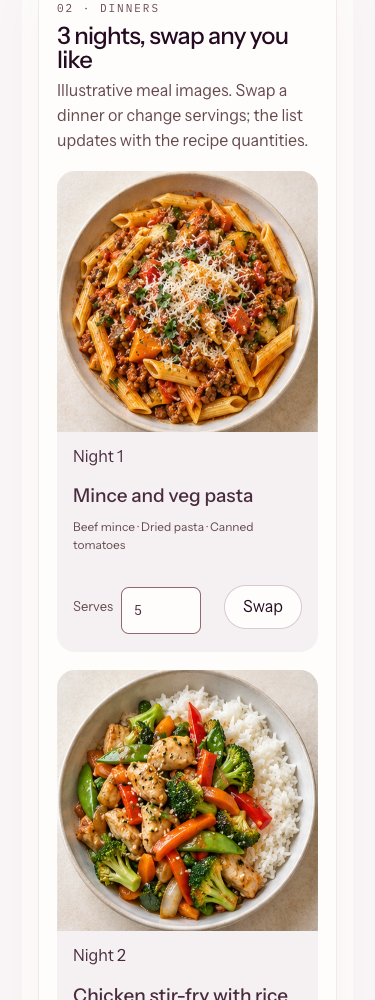
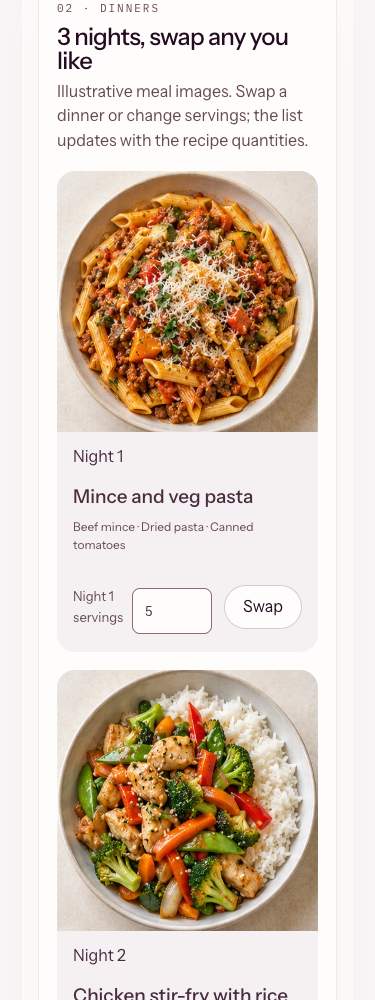
fix(do): guard planner inputs navigation and owner handoff

diff --git a/app/do/shop/ShopJourney.tsx b/app/do/shop/ShopJourney.tsx
@@ -3,7 +3,7 @@ import { useEffect, useMemo, useRef, useState } from 'react';
 import Link from 'next/link';
 import { GlassIdentity } from '@/components/brand/GlassIdentity';
 import { MEALS, ingredientById } from '@/lib/do/shop/catalogue';
-import { aisleList, choicesFromNights, estimate, listText, parseShopBrief, planMeals, retailerHandoff, RETAILERS, shopDigest, type RetailerKey, type ShopBrief } from '@/lib/do/shop/journey';
+import { validShopCount, aisleList, choicesFromNights, estimate, listText, parseShopBrief, planMeals, retailerHandoff, RETAILERS, shopDigest, type RetailerKey, type ShopBrief } from '@/lib/do/shop/journey';
 import type { MealChoice } from '@/lib/do/shop/preparation';
 import { prepareRun, reviewRun, runReceipt, type PreparationRun, type PreparedReceipt } from '@/lib/do/preparation/contracts';
 import { PantryEditor, newPantryRow, reviewPantry, type PantryRow } from './PantryEditor';
@@ -18,9 +18,25 @@ function nightsFromChoices(choices: MealChoice[]): Night[] {
 }
 type SyncState = { signedIn: boolean; enabled: boolean; workspace: string | null };
 
+function WholeNumber({ label, value, max, onChange, onValidity }: { label: string; value: number; max: number; onChange: (value: number) => void; onValidity: (valid: boolean) => void }) {
+  const [raw, setRaw] = useState(String(value));
+  useEffect(() => { setRaw(String(value)); }, [value]);
+  const valid = validShopCount(raw, max);
+  return <label>{label}<input type="number" min={1} max={max} step={1} aria-label={label} aria-invalid={!valid} value={raw} onChange={event => {
+    const next = event.target.value;
+    setRaw(next);
+    const ok = validShopCount(next, max);
+    onValidity(ok);
+    if (ok) onChange(Number(next));
+  }} />{!valid && <span role="alert">Enter a whole number from 1 to {max}. The last valid quantity remains on the list.</span>}</label>;
+}
+
 /** Brief → dinners → pantry → aisle list → handoff. Every step is editable, every edit invalidates
  * the review, and nothing leaves this page except links the shopper opens themselves. */
 export default function ShopJourney({ initialBrief = '', embedded = false, expectedWorkspace }: { initialBrief?: string; embedded?: boolean; expectedWorkspace?: string }) {
+  const [invalidNumbers, setInvalidNumbers] = useState<Record<string, boolean>>({});
+  const numericValid = !Object.values(invalidNumbers).some(Boolean);
+  const numberValidity = (id: string, valid: boolean) => { setInvalidNumbers(current => ({ ...current, [id]: !valid })); if (!valid) invalidate(); };
   const [text, setText] = useState(initialBrief);
   const [reviewBrief, setReviewBrief] = useState<ShopBrief | null>(() => initialBrief ? parseShopBrief(initialBrief) : null);
   const [checkedItems, setCheckedItems] = useState<string[]>([]);
@@ -60,12 +76,20 @@ export default function ShopJourney({ initialBrief = '', embedded = false, expec
   useEffect(() => {
     if (!text.trim() && !brief) return;
     const warn = (event: BeforeUnloadEvent) => { event.preventDefault(); event.returnValue = ''; };
+    const leave = (event: MouseEvent) => {
+      if (!(event.target instanceof Element)) return;
+      const link = event.target.closest<HTMLAnchorElement>('a[href]');
+      if (!link || link.target === '_blank' || link.getAttribute('href')?.startsWith('#')) return;
+      if (!window.confirm('Leave this unsaved shopping plan? Only a separately kept list is saved; meals and pantry edits will be lost.')) { event.preventDefault(); event.stopImmediatePropagation(); }
+    };
+    document.addEventListener('click', leave, true);
     window.addEventListener('beforeunload', warn);
-    return () => window.removeEventListener('beforeunload', warn);
+    return () => { window.removeEventListener('beforeunload', warn); document.removeEventListener('click', leave, true); };
   }, [text, brief]);
 
   function invalidate() { setRun(null); setReceipt(null); setRevision(value => value + 1); setCopied(false); setCheckedItems([]); }
   function start() {
+    if (!numericValid) return;
     if (brief && !window.confirm('Replace the current dinners and pantry edits with this reviewed brief?')) return;
     const parsed = reviewBrief ?? parseShopBrief(text);
     const choices = planMeals(parsed);
@@ -91,7 +115,7 @@ export default function ShopJourney({ initialBrief = '', embedded = false, expec
   const summary = useMemo(() => brief ? estimate(list.lines, brief.budget) : null, [brief, list.lines]);
   const handoff = useMemo(() => retailerHandoff(list.lines, retailer), [list.lines, retailer]);
   const digest = useMemo(() => brief ? shopDigest({ brief, choices, pantry: pantryReviewed ? pantry.pantry : [], lines: list.lines }) : '', [brief, choices, pantryReviewed, pantry.pantry, list.lines]);
-  const ready = Boolean(brief) && nights.length > 0 && pantryReviewed && pantry.issues.length === 0 && list.lines.length > 0;
+  const ready = numericValid && Boolean(brief) && nights.length > 0 && pantryReviewed && pantry.issues.length === 0 && list.lines.length > 0;
   const current = { ...identity, revision: Math.max(1, revision) };
 
   function review(checked: boolean) {
@@ -101,7 +125,7 @@ export default function ShopJourney({ initialBrief = '', embedded = false, expec
     setRun(reviewRun(base, current, { digest }, checked, now));
   }
   function finish() {
-    if (!run) return;
+    if (!run || !ready) return;
     try { setReceipt(runReceipt(run, current, { digest }, new Date().toISOString())); }
     catch (error) { setNotice(error instanceof Error ? error.message : 'Review the current list first.'); }
   }
@@ -110,23 +134,18 @@ export default function ShopJourney({ initialBrief = '', embedded = false, expec
     catch { setNotice('Copy is unavailable here. Select the list and copy it manually.'); }
   }
   async function keepAsTask() {
-    if (!sync?.workspace || saving || (expectedWorkspace && sync.workspace !== expectedWorkspace)) return;
+    if ((embedded && !expectedWorkspace) || !sync?.workspace || saving || (expectedWorkspace && sync.workspace !== expectedWorkspace)) return;
     setSaving(true); setNotice('');
     try {
       taskId.current ||= crypto.randomUUID();
       const response = await fetch('/api/do/continuity', { method: 'POST', headers: { 'Content-Type': 'application/json', 'X-DO-Workspace': sync.workspace }, body: JSON.stringify({ action: 'save', id: taskId.current, scope: 'personal', request: listText(list.groups, `Shopping list · ${handoff.retailer}`).slice(0, 4000), context: [], consent: true, consentVersion: 'do-continuity-v1' }) });
       const data = await response.json().catch(() => ({}));
-      setNotice(response.ok && data.durable ? 'Kept as a DO task on your account. Open it on any device from Your tasks.' : (data.message || 'The list could not be kept. Nothing was saved online.'));
-    } catch { setNotice('The list could not be kept. Nothing was saved online.'); }
+      setNotice(response.ok && data.durable ? 'List text kept as a DO task. The editable meals, pantry and receipt are only in this tab.' : (data.message || 'Save could not be confirmed. Check Your tasks before retrying.'));
+    } catch { setNotice('Save could not be confirmed. Check Your tasks before retrying.'); }
     finally { setSaving(false); }
   }
 
-  return <div className="prep-page shop-page" onClickCapture={event => {
-    if ((!text.trim() && !brief) || !(event.target instanceof Element)) return;
-    const link = event.target.closest<HTMLAnchorElement>('a[href]');
-    if (!link || link.target === '_blank' || link.getAttribute('href')?.startsWith('#')) return;
-    if (!window.confirm('Leave this unsaved shopping plan? Copy the list or keep it as a task first if you need it later.')) { event.preventDefault(); event.stopPropagation(); }
-  }}>
+  return <div className="prep-page shop-page">
     {!embedded && <header className="prep-header"><GlassIdentity kind="do" size={54} /><Link href="/do">DO</Link><nav><Link href="/do/shop" aria-current="page">Shop</Link><Link href="/do/travel">Travel</Link><Link href="/do/continue">Your tasks</Link></nav></header>}
     <h1>Shopper DO</h1>
     <p className="prep-lead">Your dinners. Your pantry. One list to check.</p>
@@ -142,19 +161,19 @@ export default function ShopJourney({ initialBrief = '', embedded = false, expec
         <p>In your own words. Review the details before planning. Vegan meals are not supported yet.</p>
         <label htmlFor="shop-brief-text" className="prep-check" style={{ display: 'block' }}>Your brief</label>
         <textarea id="shop-brief-text" value={text} maxLength={6000} placeholder="e.g. Dinners for 4 for 5 nights, about $250. We have rice and onions. No nuts." onChange={event => { setText(event.target.value); setReviewBrief(null); }} />
-        <p className="shop-fine">Planning stays on this page. No new provider call or retailer connection.</p>
-        <button type="button" disabled={!text.trim()} onClick={() => setReviewBrief(parseShopBrief(text))}>Review brief</button>
+        <p className="shop-fine">Unsaved · this tab only. Browser Back or refresh can discard meals and pantry edits. Copy the list before leaving. Keeping a task saves list text only.</p>
+        <button type="button" disabled={!text.trim()} onClick={() => { setInvalidNumbers({}); setReviewBrief(parseShopBrief(text)); }}>Review brief</button>
         {reviewBrief && <div className="shop-brief-review" aria-label="Review shopping brief">
           <p>Check what DO read. Planning uses these values.</p>
           <div className="shop-review-fields">
-            <label>People<input type="number" min={1} max={12} value={reviewBrief.servings} onChange={event => setReviewBrief({ ...reviewBrief, servings: Math.min(12, Math.max(1, Number(event.target.value) || 1)) })} /></label>
-            <label>Nights (up to 7)<input type="number" min={1} max={7} value={reviewBrief.nights} onChange={event => setReviewBrief({ ...reviewBrief, nights: Math.min(7, Math.max(1, Number(event.target.value) || 1)) })} /></label>
+            <WholeNumber label="People" value={reviewBrief.servings} max={12} onValidity={valid => numberValidity("people", valid)} onChange={servings => setReviewBrief({ ...reviewBrief, servings })} />
+            <WholeNumber label="Nights (up to 7)" value={reviewBrief.nights} max={7} onValidity={valid => numberValidity("nights", valid)} onChange={nights => setReviewBrief({ ...reviewBrief, nights })} />
             <label>Budget NZ$ (optional)<input type="number" min={1} max={9999} value={reviewBrief.budget ? reviewBrief.budget.limitMinor / 100 : ''} onChange={event => setReviewBrief({ ...reviewBrief, budget: Number(event.target.value) > 0 ? { currency: 'NZD', limitMinor: Math.round(Math.min(9999, Number(event.target.value)) * 100), feeMinor: null } : null })} /></label>
           </div>
           <p>{reviewBrief.vegan ? 'Vegan: unsupported — no meals will be suggested.' : reviewBrief.vegetarian ? 'Vegetarian' : 'No vegetarian restriction read'} · {reviewBrief.excludedAllergens.length ? `Exclude: ${reviewBrief.excludedAllergens.join(', ')}` : 'No allergen exclusions read'}. Edit the brief to change dietary requirements.</p>
           {reviewBrief.unrecognised.length > 0 && <p>Not applied: {reviewBrief.unrecognised.join('; ')}</p>}
-          <button type="button" className="shop-primary" onClick={start} disabled={reviewBrief.vegan}>Use these details · plan dinners</button>
-          <button type="button" onClick={() => setReviewBrief(null)}>Cancel review</button>
+          <button type="button" className="shop-primary" onClick={start} disabled={reviewBrief.vegan || reviewBrief.dietaryReviewRequired || !numericValid}>Use these details · plan dinners</button>
+          <button type="button" onClick={() => { setInvalidNumbers({}); setReviewBrief(null); }}>Cancel review</button>
         </div>}
         {brief && <ul className="shop-chips" aria-label="What DO read">
           <li>{brief.servings} people</li><li>{brief.nights} nights</li>
@@ -174,7 +193,7 @@ export default function ShopJourney({ initialBrief = '', embedded = false, expec
             <div className="shop-meal-photo" role="img" aria-label={`Illustrative serving of ${meal.name}`} style={{ backgroundPosition: `${(MEALS.indexOf(meal) % 4) * 100 / 3}% ${MEALS.indexOf(meal) < 4 ? 0 : 100}%` }} />
             <span>Night {index + 1}</span>
             <div><strong>{meal.name}</strong><span className="shop-meal-ingredients">{meal.ingredients.slice(0, 3).map(item => item.name).join(" · ")}</span></div>
-            <label>Serves<input type="number" min={1} max={12} value={night.servings} aria-label={`Night ${index + 1} servings`} onChange={event => { const value = Math.min(12, Math.max(1, Number(event.target.value) || 1)); setNights(current => current.map((item, i) => i === index ? { ...item, servings: value } : item)); invalidate(); }} /></label>
+            <WholeNumber label={`Night ${index + 1} servings`} value={night.servings} max={12} onValidity={valid => numberValidity(`night-${index}`, valid)} onChange={servings => { setNights(current => current.map((item, i) => i === index ? { ...item, servings } : item)); invalidate(); }} />
             <button type="button" aria-label={`Swap night ${index + 1}`} onClick={() => swap(index)}>Swap</button>
           </li>; })}</ol>
           <p className="shop-fine">{eligible.length} of {MEALS.length} catalogue dinners fit your limits. <button type="button" className="shop-text-button" disabled={nights.length >= 7 || !eligible.length} onClick={() => { setNights(current => [...current, { mealId: eligible[current.length % eligible.length].id, servings: brief.servings }]); invalidate(); }}>Add a night</button> <button type="button" className="shop-text-button" disabled={nights.length <= 1} onClick={() => { setNights(current => current.slice(0, -1)); invalidate(); }}>Remove last night</button></p>
@@ -204,12 +223,12 @@ export default function ShopJourney({ initialBrief = '', embedded = false, expec
           <div className="shop-handoff-controls">
             <label>Supermarket <select value={retailer} onChange={event => setRetailer(event.target.value as RetailerKey)}>{Object.entries(RETAILERS).map(([key, value]) => <option key={key} value={key}>{value.name}</option>)}</select></label>
             <button type="button" disabled={!ready} onClick={() => void copyList()}>{copied ? 'Copied' : 'Copy list'}</button>
-            <button type="button" disabled={!ready || !sync?.enabled || saving || Boolean(expectedWorkspace && sync.workspace !== expectedWorkspace)} title={!sync?.signedIn ? 'Sign in to keep tasks' : !sync?.enabled ? 'Turn on sync in Your tasks first' : undefined} onClick={() => void keepAsTask()}>{saving ? 'Keeping…' : 'Keep as a DO task'}</button>
+            <button type="button" disabled={!ready || !sync?.enabled || saving || (embedded && !expectedWorkspace) || Boolean(expectedWorkspace && sync.workspace !== expectedWorkspace)} title={!sync?.signedIn ? 'Sign in to keep tasks' : !sync?.enabled ? 'Turn on sync in Your tasks first' : undefined} onClick={() => void keepAsTask()}>{saving ? 'Keeping…' : 'Keep as a DO task'}</button>
           </div>
           {ready ? <ul className="shop-links">{handoff.lines.map(line => <li key={line.name}><span>{line.name} · {line.display}</span><a href={line.url} target="_blank" rel="noopener noreferrer">Search at {handoff.retailer} ↗</a></li>)}</ul> : <p className="shop-fine">Finish the steps above to get your links.</p>}
           <label className="prep-check"><input type="checkbox" disabled={!ready || !!receipt} checked={run?.status === 'reviewed'} onChange={event => review(event.target.checked)} />I checked the quantities, swaps and allergen flags</label>
-          <button type="button" className="shop-primary" disabled={run?.status !== 'reviewed' || !!receipt} onClick={finish}>Save a prepared receipt</button>
-          {receipt && <div className="shop-receipt" role="status"><p>prepared · nothing ordered</p><p>{receipt.id} · {receipt.preparedAt}</p><p>{list.lines.length} lines · {handoff.retailer} · indicative estimate {money(list.lines.reduce((sum, line) => sum + line.estimateMinor, 0))}</p><p>external action: none · receipt is for this session; keep it as a task to carry it to another device</p></div>}
+          <button type="button" className="shop-primary" disabled={!ready || run?.status !== 'reviewed' || !!receipt} onClick={finish}>Save a prepared receipt</button>
+          {receipt && <div className="shop-receipt" role="status"><p>prepared · nothing ordered</p><p>{receipt.id} · {receipt.preparedAt}</p><p>{list.lines.length} lines · {handoff.retailer} · indicative estimate {money(list.lines.reduce((sum, line) => sum + line.estimateMinor, 0))}</p><p>external action: none · this receipt is only in this tab. Keeping a task saves list text only.</p></div>}
           <p className="shop-fine">{sync?.signedIn ? (sync.enabled ? 'Kept tasks reopen on any device you sign in on.' : 'Turn on sync in Your tasks to keep this list on your account.') : 'Sign in and turn on sync to keep this list on your account.'} Catalogue ingredient notes: {list.lines.filter(line => ingredientById(line.ingredientId)?.allergens.length).length} lines carry declared allergens; always check the real label.</p>
         </section>
       </div>}

diff --git a/lib/do/shop/journey.ts b/lib/do/shop/journey.ts
@@ -6,7 +6,7 @@ import { budgetSummary, fingerprint, type Budget } from '../preparation/contract
  * beyond the patterns below. Anything not recognised stays in `unrecognised` for the person. */
 export type ShopBrief = {
   servings: number; nights: number; budget: Budget | null;
-  vegetarian: boolean; vegan?: boolean; excludedAllergens: string[];
+  vegetarian: boolean; vegan?: boolean; dietaryReviewRequired?: boolean; excludedAllergens: string[];
   pantryHints: { id: string; name: string }[];
   unrecognised: string[];
 };
@@ -34,14 +34,17 @@ export function parseShopBrief(text: string): ShopBrief {
     }
   }
   const unrecognised = source.split(/[.;]\s*/).map(part => part.trim()).filter(part => part && !/(for|feed)\s+\d|\d\s*(people|adults|nights?|dinners?|days?)|\$|dollars|budget|vegetarian|veggie|have|got|week|gluten|dairy|nut|egg|fish|soy/i.test(part));
-  return { servings, nights, budget, vegetarian, vegan: /\bvegan\b/.test(lower), excludedAllergens, pantryHints, unrecognised };
+  // Retain every dietary clause for review, including clauses attached to recognised counts.
+  const dietaryReviewRequired = /allerg|intoleran|sesame|shellfish|celery|mustard|sulphite|lupin|halal|kosher|low.sodium|diabet|keto/i.test(source);
+  if (dietaryReviewRequired) unrecognised.push('Dietary requirements need manual review; this catalogue cannot verify allergy safety.');
+  return { servings, nights, budget, vegetarian, dietaryReviewRequired, vegan: /\bvegan\b/.test(lower), excludedAllergens, pantryHints, unrecognised };
 }
 
 /** Pick dinners for the brief: rotate the catalogue, honour vegetarian and allergen limits,
  * never repeat a dinner before every eligible one has been used. */
-export function planMeals(brief: Pick<ShopBrief, 'servings' | 'nights' | 'vegetarian' | 'vegan' | 'excludedAllergens'>, catalogue: CatalogueMeal[] = MEALS): MealChoice[] {
+export function planMeals(brief: Pick<ShopBrief, 'servings' | 'nights' | 'vegetarian' | 'vegan' | 'dietaryReviewRequired' | 'excludedAllergens'>, catalogue: CatalogueMeal[] = MEALS): MealChoice[] {
   // Catalogue does not verify animal-derived ingredients in sauces or packaged goods.
-  if (brief.vegan) return [];
+  if (brief.vegan || brief.dietaryReviewRequired) return [];
   const eligible = catalogue.filter(meal => (!brief.vegetarian || meal.tags.includes('vegetarian'))
     && !meal.ingredients.some(item => ingredientById(item.id)?.allergens.some(allergen => brief.excludedAllergens.includes(allergen))));
   if (!eligible.length) return [];
@@ -112,4 +115,9 @@ export function choicesFromNights(nights: ShopNight[]): MealChoice[] {
     else choices.set(key, { ...night, occurrences: 1 });
   }
   return [...choices.values()];
+}
+
+/** UI boundary: empty and fractional edits remain drafts, never quantities. */
+export function validShopCount(raw: string, max: number): boolean {
+  return /^\d+$/.test(raw) && Number.isSafeInteger(Number(raw)) && Number(raw) >= 1 && Number(raw) <= max;
 }

diff --git a/components/do/DoWidgetPrivacyBoundary.tsx b/components/do/DoWidgetPrivacyBoundary.tsx
@@ -10,6 +10,7 @@ import type { DoTask } from '@/apps/do/shared/preparation';
 /** Identity events only invalidate. The existing server contract verifies ownership. */
 export function DoWidgetPrivacyBoundary({ initialTask }: { initialTask: DoTask }) {
   const [scope, setScope] = useState<string | null>(null);
+  const [checking, setChecking] = useState(true);
   const [error, setError] = useState(false);
   useEffect(() => {
     let mounted = true;
@@ -17,16 +18,17 @@ export function DoWidgetPrivacyBoundary({ initialTask }: { initialTask: DoTask }
     let generation = 0;
     let request: AbortController | null = null;
     async function revalidate() {
+      setChecking(true);
       const attempt = ++generation;
       const controller = replacePersonalLoad(request);
       request = controller;
       try {
         const next = await readWritingOwner(AbortSignal.any([controller.signal, AbortSignal.timeout(10_000)]));
         if (!mounted || controller.signal.aborted || attempt !== generation) return;
-        verified = next; setScope(next); setError(false);
+        verified = next; setScope(next); setError(false); setChecking(false);
       } catch {
         if (!mounted || controller.signal.aborted || attempt !== generation) return;
-        verified = null; setScope(null); setError(true);
+        verified = null; setScope(null); setError(true); setChecking(false);
       }
     }
     const invalidate = () => {
@@ -49,5 +51,5 @@ export function DoWidgetPrivacyBoundary({ initialTask }: { initialTask: DoTask }
     return () => { mounted = false; generation++; request?.abort(); unsubscribe?.(); window.removeEventListener('focus', focus); window.removeEventListener(WRITING_OWNER_CHANGED_EVENT, invalidate); };
   }, []);
   if (!scope) return <div role="status">{error ? <>DO could not verify this workspace. <button onClick={() => window.dispatchEvent(new Event('focus'))}>Retry workspace</button></> : 'Checking this workspace…'}</div>;
-  return <DoFocusWorkspace key={scope} initialTask={initialTask} />;
+  return <><div hidden={checking} inert={checking}><DoFocusWorkspace key={scope} initialTask={initialTask} expectedWorkspace={checking ? undefined : scope} /></div>{checking && <div role="status">Checking this workspace…</div>}</>;
 }

diff --git a/components/do/DoFocusWorkspace.tsx b/components/do/DoFocusWorkspace.tsx
@@ -18,7 +18,7 @@ import type { CompanionEntry } from '@/apps/do/shared/companion-entry';
 import type { DoTask } from '@/apps/do/shared/preparation';
 
 type Mode = 'write' | 'talk' | 'look' | 'build' | 'shop';
-export function DoFocusWorkspace({ initialTask = 'reply' }: { initialTask?: DoTask }) {
+export function DoFocusWorkspace({ initialTask = 'reply', expectedWorkspace }: { initialTask?: DoTask; expectedWorkspace?: string }) {
   const [shoppingBrief, setShoppingBrief] = useState<string | null>(null);
   const [mode, setMode] = useState<Mode>('write');
   const [builderOpened, setBuilderOpened] = useState(false);
@@ -54,7 +54,7 @@ export function DoFocusWorkspace({ initialTask = 'reply' }: { initialTask?: DoTa
   }, [enter]);
   function acceptShoppingBrief(text: string) {
     // This component is keyed and unmounted by the existing verified owner boundary.
-    if (shoppingBrief !== null || !text.trim() || text.length > 6000) return false;
+    if (!expectedWorkspace || shoppingBrief !== null || !text.trim() || text.length > 6000) return false;
     setShoppingBrief(text.trim()); setMode('shop'); return true;
   }
   function acceptContext(text: string) {
@@ -88,7 +88,7 @@ export function DoFocusWorkspace({ initialTask = 'reply' }: { initialTask?: DoTa
       </>}
       {shoppingBrief !== null && <section hidden={mode !== 'shop'} aria-label="Shopping plan from reviewed call">
         <button type="button" className={styles.textButton} onClick={() => { if (window.confirm('Discard this unsaved shopping plan?')) { setShoppingBrief(null); enter('write'); } }}>Discard shopping plan</button>
-        <ShopJourney embedded initialBrief={shoppingBrief} />
+        <ShopJourney embedded initialBrief={shoppingBrief} expectedWorkspace={expectedWorkspace} />
       </section>}
       {mode === 'write' && <DoLocalInformation />}
       <details className={styles.secondaryDetails} onToggle={e => { if (!e.currentTarget.open && mode === 'build') setMode('write'); }}>

diff --git a/lib/do/shop/journey.test.ts b/lib/do/shop/journey.test.ts
@@ -1,6 +1,6 @@
 import { describe, expect, it } from 'vitest';
 import { MEALS, ingredientByName } from './catalogue';
-import { aisleList, choicesFromNights, displayQuantity, estimate, listText, parseShopBrief, planMeals, retailerHandoff } from './journey';
+import { validShopCount, aisleList, choicesFromNights, displayQuantity, estimate, listText, parseShopBrief, planMeals, retailerHandoff } from './journey';
 
 describe('shop brief parsing', () => {
   it('reads people, nights, budget, diet, allergens and pantry hints from plain words', () => {
@@ -94,5 +94,22 @@ describe('reviewed planning boundaries', () => {
     const { lines } = aisleList(choices, []);
     expect(lines.find(line => line.ingredientId === 'pasta')?.required).toBe(1000);
     expect(lines.find(line => line.ingredientId === 'beef-mince')?.required).toBe(1250);
+  });
+});
+
+describe('review boundaries', () => {
+  it.each(['2.5', '', 'NaN', 'Infinity', '-1', '0', '13', '1e309'])('rejects invalid servings %s', raw => {
+    expect(validShopCount(raw, 12)).toBe(false);
+  });
+  it('accepts only bounded whole nights and servings', () => {
+    expect(validShopCount('12', 12)).toBe(true);
+    expect(validShopCount('8', 7)).toBe(false);
+    expect(validShopCount('7', 7)).toBe(true);
+  });
+  it('blocks unsupported dietary clauses appended to recognised dinner counts', () => {
+    const brief = parseShopBrief('Dinners for 4 for 5 nights, sesame allergy');
+    expect(brief.dietaryReviewRequired).toBe(true);
+    expect(brief.unrecognised.join(' ')).toContain('manual review');
+    expect(planMeals(brief)).toEqual([]);
   });
 });

diff --git a/docs/reviews/SHOPPER-VOICE-20261014.md b/docs/reviews/SHOPPER-VOICE-20261014.md
@@ -45,3 +45,13 @@ Local: 50 targeted tests passed, 32 planner browser assertions and 16 voice/hand
 ## Image provenance
 
 `public/do/shop/meal-ideas-v1.png` is a built-in Imagegen-generated illustrative contact sheet, not a photo of cooked/tested recipes or retailer products. Prompt: eight equal overhead daylight photographs in a four-column/two-row grid, ordered mince/veg pasta, chicken stir-fry/rice, hoki/kūmara/peas, chickpea curry/rice, sausages/mash/peas, pumpkin soup/bread, beef nachos, tomato/aubergine pasta; pale ceramic/tabletop, no text/people/branding. Recipe facts and quantities remain separate HTML. Original generated file retained in the task workspace.
+
+### Independent review follow-up
+
+Numeric count fields now retain transient empty/fractional/out-of-range input without passing it to quantity calculations; planning/review stays disabled until corrected. Unsupported allergy/diet clauses (including sesame appended to a recognised dinner request) block suggestions for manual review.
+
+A document capture guard covers hosted widget header/footer links as well as planner links. Cancellation preserves edits. Native browser history is still session-only: visible copy explicitly warns that Back/refresh can discard meals and pantry edits; copy-list remains the manual recovery route. No private persistence was introduced.
+
+The verified widget boundary passes its owner to the planner, suspends interaction while revalidating and clears on identity invalidation. A continuity response for another account cannot enable list saving. Save acknowledgement uncertainty now directs users to check Your tasks; only list text is saved, never editable meals/pantry or the prepared receipt.
+
+Regression evidence: bounded integer unit cases (fractional, empty, nonfinite, negative, zero and over-limit), unsupported dietary clause, synthetic voice/planner cancellation and outer widget Privacy navigation, mismatched continuity owner and delayed/reordered owner verification. No paid calls, real audio or cart actions.
